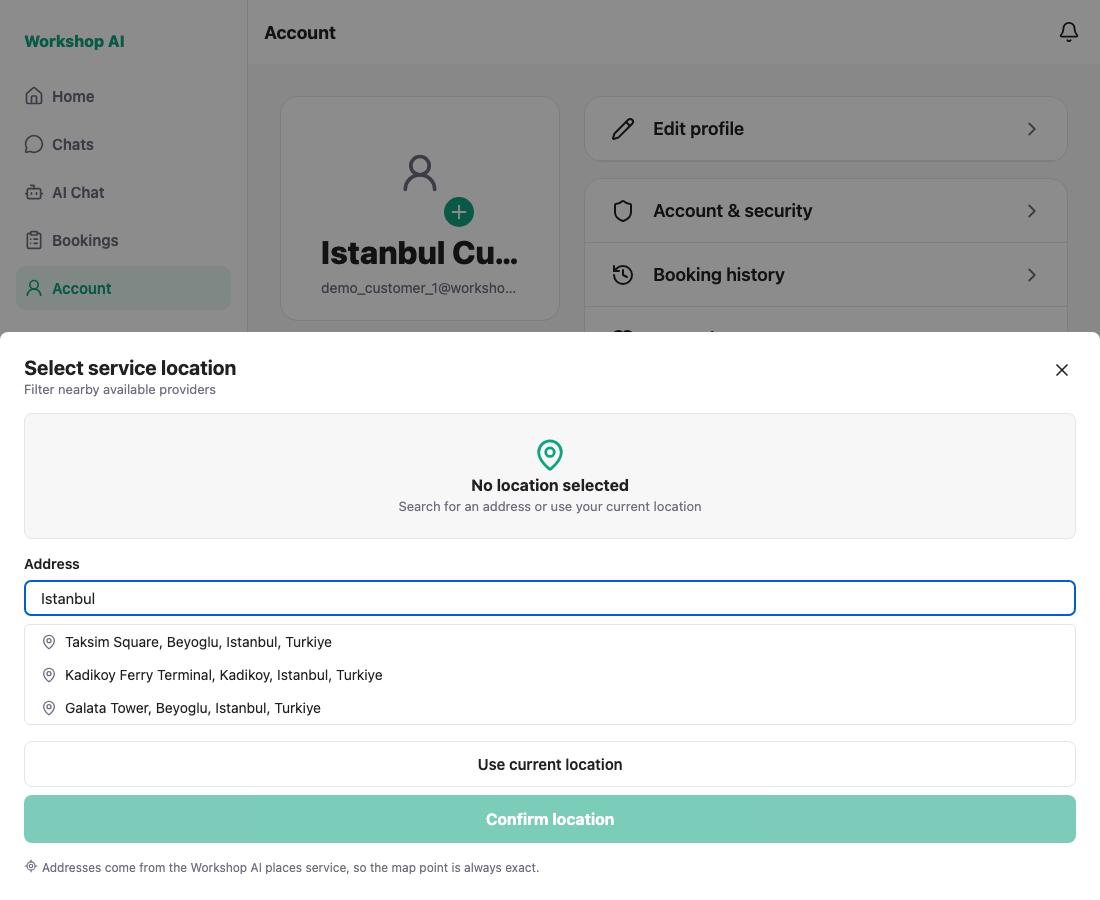
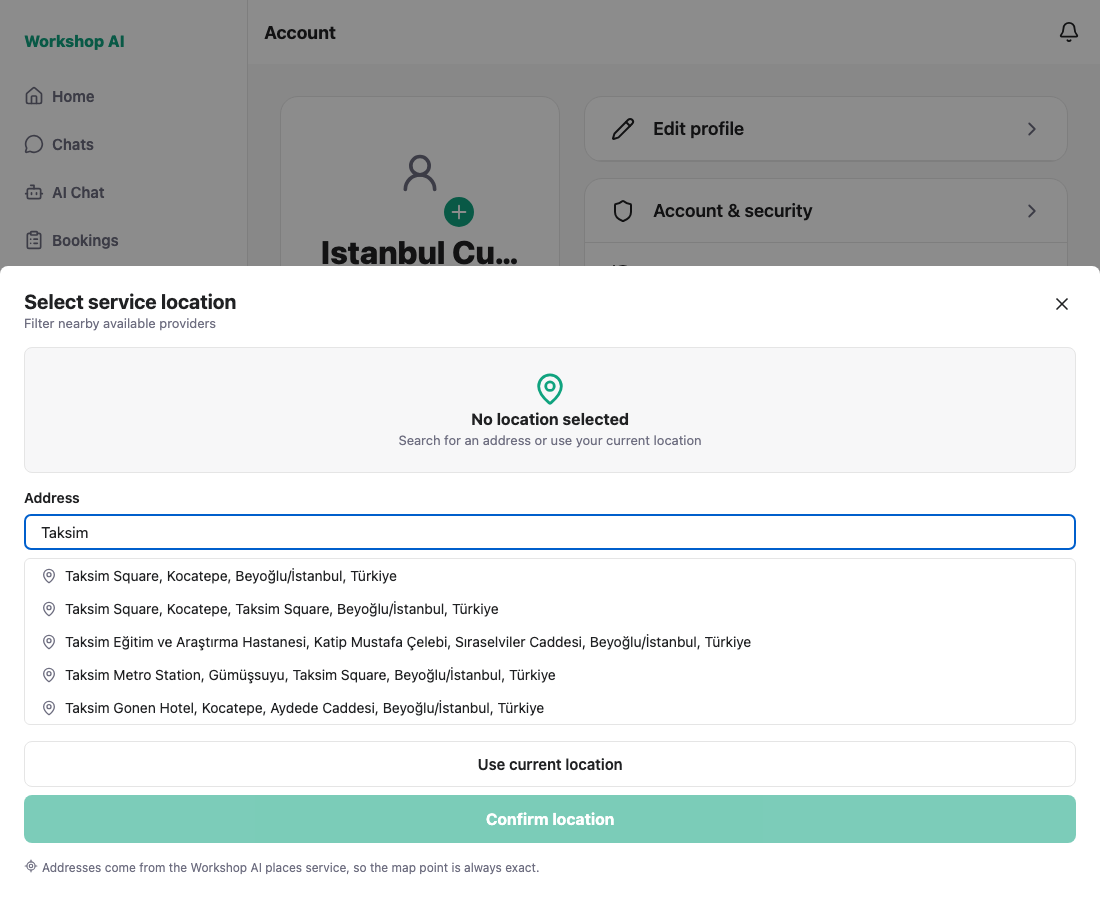
WS-72 docs: re-capture the picker against the live Places API
A real WORKSHOP_GOOGLE_MAPS_API_KEY is configured now, so the two screenshots
that needed results no longer come from a local stub: the suggestions and the
coordinates are Google's, fetched through our own proxy.

"Taksim" returns five live results, and the chosen place resolves to
41.037002, 28.985092 — the same values the API gives when called directly.

The script matches live results by shape rather than by one exact string,
because Google's wording changes. The no-key screenshot stays: that is still
what a fresh clone sees. The key lives only in .env, which is gitignored.

diff --git a/docs/testing/ws-72/shoot.js b/docs/testing/ws-72/shoot.js
@@ -4,12 +4,11 @@
 // and WS-99 / WS-100 own hanging it on register and booking. For capture only,
 // a temporary Account row opens it; that row is not part of the commit.
 //
-// MODE=unconfigured  the real state of this machine: no Places key, so the
-//                    backend answers 503 and the picker shows that message.
-// MODE=stubbed       the Google call is stubbed locally so the suggestion ->
-//                    details -> coordinates path can be seen end to end. The
-//                    app still goes through GET /places/autocomplete and
-//                    GET /places/details.
+// MODE=live         (default) a real Places API key is configured, so the
+//                    suggestions and coordinates come from Google through our
+//                    own proxy.
+// MODE=unconfigured  no key: the backend answers 503 and the picker shows that
+//                    message. Kept because that is what a fresh clone sees.
 const { chromium } = require("playwright");
 
 const APP = "http://localhost:8090";
@@ -17,7 +16,7 @@ const OUT = __dirname;
 const PASSWORD = "Demo1234";
 const CUSTOMER = "demo_customer_1@workshop.ai";
 const ACCOUNT_TAB = /^Account/;
-const MODE = process.env.MODE === "unconfigured" ? "unconfigured" : "stubbed";
+const MODE = process.env.MODE === "unconfigured" ? "unconfigured" : "live";
 
 const visible = (page, text) =>
   page.getByText(text, { exact: true }).locator("visible=true").first();
@@ -75,7 +74,7 @@ async function shot(page, name) {
     if (url.includes("maps.googleapis.com")) placesCalls.push(`DIRECT:${url}`);
   });
 
-  await field(page, "Start typing an address").fill("Istanbul");
+  await field(page, "Start typing an address").fill("Taksim");
   await page.waitForTimeout(3000);
 
   if (MODE === "unconfigured") {
@@ -86,22 +85,41 @@ async function shot(page, name) {
     );
     await shot(page, "03-places-not-configured");
   } else {
+    // Google's wording changes, so match the shape of a real result rather
+    // than one exact string.
+    const suggestion = page
+      .getByText(/Taksim.*(Türkiye|Turkiye)/)
+      .locator("visible=true")
+      .first();
     check(
-      await isShown(page, "Taksim Square, Beyoglu, Istanbul, Turkiye"),
-      "typing shows suggestions from /places/autocomplete",
-      "no suggestions appeared",
+      (await suggestion.count()) > 0,
+      "typing shows live suggestions from /places/autocomplete",
+      "no suggestions came back from the proxy",
     );
     await shot(page, "01-suggestions");
 
-    await visible(page, "Taksim Square, Beyoglu, Istanbul, Turkiye").click();
+    const chosen = (await suggestion.textContent()) ?? "";
+    await suggestion.click();
     await page.waitForTimeout(2500);
+
+    const coordinates = page
+      .getByText(/^-?\d+\.\d{6}, -?\d+\.\d{6}$/)
+      .locator("visible=true")
+      .first();
     check(
-      await isShown(page, "41.036945, 28.985139"),
-      "picking a suggestion fills coordinates from /places/details",
+      (await coordinates.count()) > 0,
+      `picking "${chosen.slice(0, 40)}…" filled coordinates from /places/details (${(
+        await coordinates.textContent()
+      )?.trim()})`,
       "coordinates were not filled from the details call",
     );
     check(
-      await isShown(page, "Taksim Square, Beyoglu, 34435 Istanbul, Turkiye"),
+      await page
+        .getByText(/Taksim/)
+        .locator("visible=true")
+        .first()
+        .isVisible()
+        .catch(() => false),
       "the chosen place's formatted address is shown",
       "the formatted address is missing",
     );

diff --git a/docs/testing/ws-72/README.md b/docs/testing/ws-72/README.md
@@ -1,41 +1,35 @@
 # WS-72 — LocationPickerModal on /places: test evidence
 
+Captured against the live backend with a **real Google Places API key**
+configured in `WORKSHOP_GOOGLE_MAPS_API_KEY`. The suggestions and coordinates
+below came from Google through our own proxy.
+
 The picker is not mounted anywhere yet, on purpose: WS-72 owns the component and
 WS-99 / WS-100 own hanging it on register and booking. For capture only, a
 temporary Account row opened it. **That row is not part of the commit** — it was
 reverted before the branch was pushed.
 
-## About the Places API key
+## 1. Typing shows live suggestions
 
-This machine has no `WORKSHOP_GOOGLE_MAPS_API_KEY`, so the backend proxy answers
-`503 Places service is not configured`. Both states are captured:
+Five real results for "Taksim", debounced so a keystroke does not cost a request
+to the rate-limited proxy.
 
-| Shot | State | What it proves |
-| --- | --- | --- |
-| 01, 02 | Google call stubbed locally | The suggestion → details → coordinates path works end to end |
-| 03 | The real state of this machine | The backend's error is shown to the user instead of an empty list |
-
-For 01 and 02 the **stub replaced Google's response inside the backend**, not the
-app's. The app still called `GET /places/autocomplete` and `GET /places/details`
-over HTTP, which is what this ticket is about. The stub is local only and is not
-in the branch.
-
-## 1. Typing shows suggestions
-
-Three suggestions from `/places/autocomplete`, debounced so a keystroke does not
-cost a request.
-
-![Suggestions from the places proxy](01-suggestions.png)
+![Live suggestions from the places proxy](01-suggestions.png)
 
 ## 2. Picking a suggestion fills the coordinates
 
-`/places/details` returns the formatted address plus latitude and longitude;
-Confirm only becomes available once a place is chosen. There is no way to type a
-coordinate any more.
+`/places/details` returned `Taksim Square, Kocatepe, 34435 Beyoğlu/İstanbul,
+Türkiye` at `41.037002, 28.985092` — the same values the API returns when
+called directly. Confirm only becomes available once a place is chosen, and
+there is no way to type a coordinate any more.
 
-![A selected place with coordinates](02-selected-place.png)
+![A selected place with real coordinates](02-selected-place.png)
 
 ## 3. Without a key, the backend's error is shown
+
+Captured before the key was configured, and still the state a fresh clone sees:
+the proxy answers `503 Places service is not configured` and the picker shows
+that message instead of an empty list.
 
 ![Places service is not configured](03-places-not-configured.png)
 
@@ -44,27 +38,27 @@ coordinate any more.
 ## How these were captured
 
 `shoot.js` drives the flow with Playwright and asserts the acceptance criteria.
-It also records every network request the picker makes and fails if any of them
-goes to `maps.googleapis.com`, which is how "all three platforms only call our
-/places APIs" is checked rather than assumed.
+It records every network request the picker makes and fails if any of them goes
+to `maps.googleapis.com`, which is how "all three platforms only call our
+/places APIs" is checked rather than assumed. Live results are matched by shape,
+not by one exact string, because Google's wording changes.
 
 ```bash
-MODE=unconfigured node docs/testing/ws-72/shoot.js   # real state here
-MODE=stubbed     node docs/testing/ws-72/shoot.js    # with the backend stub
+node docs/testing/ws-72/shoot.js                    # live, needs the key
+MODE=unconfigured node docs/testing/ws-72/shoot.js  # no key, error path
 ```
 
-A clean stubbed run prints:
+A clean live run prints:
 
 ```
 PASS: picker opens with nothing selected
-PASS: typing shows suggestions from /places/autocomplete
-PASS: picking a suggestion fills coordinates from /places/details
+PASS: typing shows live suggestions from /places/autocomplete
+PASS: picking "Taksim Square, Kocatepe, Beyoğlu/İstanbu…" filled coordinates from /places/details (41.037002, 28.985092)
 PASS: the chosen place's formatted address is shown
 PASS: only our proxy was called (2 request(s), no maps.googleapis.com)
 PASS: the hand-typed latitude and longitude fields are gone
 ALL CHECKS PASSED
 ```
 
-Still to confirm with a real key: that Google's live responses parse the same
-way. The parsing lives in the backend (`places_service`) and is covered by
-WS-71's tests.
+The key lives only in `.env`, which is gitignored. Nothing in this branch
+contains it.
